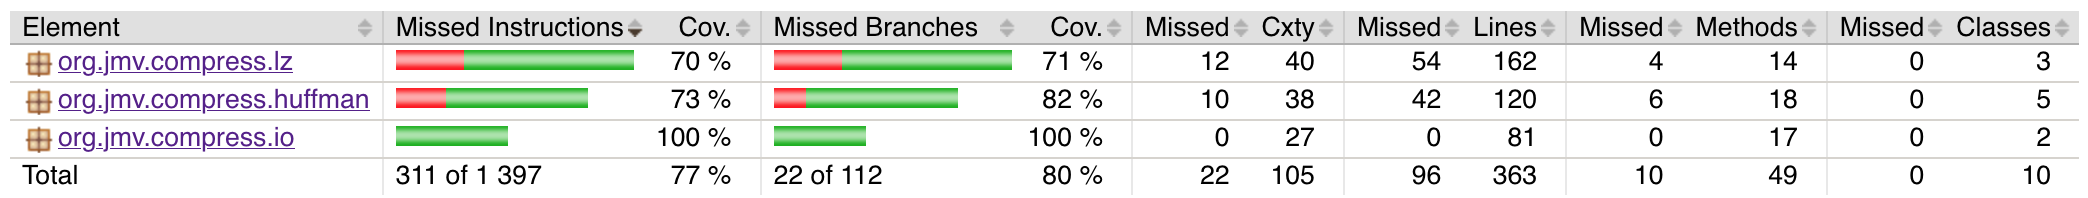
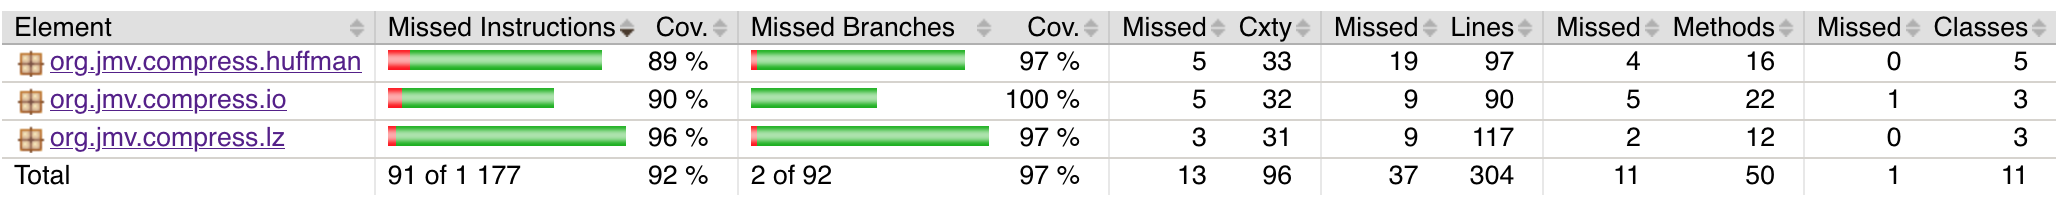
kelattava tiedostonluku

Changed region(s): [[0.0, 0.0606, 1.0, 0.9394], [0.7767, 0.2727, 0.8078, 0.3333]]

diff --git a/compress/src/main/java/org/jmv/compress/lz/LZEncoder.java b/compress/src/main/java/org/jmv/compress/lz/LZEncoder.java
@@ -3,8 +3,6 @@ package org.jmv.compress.lz;
 import java.io.IOException;
 import java.io.InputStream;
 import java.io.OutputStream;
-import java.io.DataInputStream;
-import java.io.RandomAccessFile;
 
 import org.jmv.compress.io.BitWriter;
 
@@ -15,35 +13,6 @@ public class LZEncoder {
     private static final int maxWindowLength = 4096;
     private static final int minMatchLength = 3;
     private static final int maxMatchLength = 258;
-
-    /**
-     * Siirrä ikkunaa, lue puskuri täyteen ja palauta luettujen tavuen lukumäärä.
-     *
-     * @param buffer Puskuri minne luetaan.
-     * @param input Sisääntulo mistä luetaan.
-     *
-     * @return Luettujen tavujen lukumäärä.
-     *
-     * @throws IOException jos I/O-poikkeama tapahtui.
-     */
-    private static int fillWindow(byte[] buffer, RandomAccessFile input) throws IOException {
-        byte[] in = new byte[maxWindowLength];
-        int bytesRead = input.read(in, 0, maxWindowLength);
-
-        if (bytesRead == -1) {
-            return bytesRead;
-        }
-
-        if (bytesRead == maxWindowLength) {
-            System.arraycopy(buffer, maxWindowLength, buffer, 0, maxWindowLength);
-            System.arraycopy(in, 0, buffer, maxWindowLength, maxWindowLength);
-        } else {
-            System.arraycopy(buffer, bytesRead, buffer, 0, (2 * maxWindowLength) - bytesRead);
-            System.arraycopy(in, 0, buffer, (2 * maxWindowLength) -  bytesRead, bytesRead);
-        }
-
-        return bytesRead;
-    }
 
     /**
      * Siirrä ikkunaa, lue puskuri täyteen ja palauta luettujen tavuen lukumäärä.
@@ -90,71 +59,6 @@ public class LZEncoder {
                 ++length;
             }
             input.reset();
-
-            var bitWriter = new BitWriter(output);
-            bitWriter.writeBits(length, 32);
-
-            HashChain hc = new HashChain(maxWindowLength, minMatchLength, 16);
-
-            byte[] buffer = new byte[2 * maxWindowLength];
-            int lookahead = fillWindow(buffer, input);
-            while (lookahead != -1) {
-                int currentPosition = (2 * maxWindowLength) - lookahead;
-                while (currentPosition < (2 * maxWindowLength)) {
-                    // Etsi pisin osuma nykyiselle kohdalle.
-                    hc.findLongestMatch(buffer, currentPosition);
-                    int matchPosition = hc.getMatchPosition();
-                    int matchLength = hc.getMatchLength();
-
-                    // Jos osuma oli liian lyhyt, koodaa se literaalina.
-                    // Muutoin koodaa se (offset, pituus)-parina.
-                    if (matchLength < minMatchLength) {
-                        bitWriter.writeBit(0);
-                        bitWriter.writeBits((char)buffer[currentPosition], 8);
-
-                        ++currentPosition;
-                    } else {
-                        if (matchLength > maxMatchLength) {
-                            matchLength = maxMatchLength;
-                        }
-                        int offset = -(matchPosition - currentPosition);
-                        bitWriter.writeBit(1);
-                        bitWriter.writeBits(offset, 12);
-                        bitWriter.writeBits(matchLength, 9);
-
-                        currentPosition += matchLength;
-                    }
-                }
-                // Täytä puskuri ja siirrä ikkunaa.
-                lookahead = fillWindow(buffer, input);
-                hc.moveWindow(lookahead);
-            }
-            bitWriter.finish();
-            return bitWriter.getBytesWritten();
-
-        } catch (IOException e) {
-            e.printStackTrace();
-        }
-
-        return 0;
-    }
-
-    /**
-     * LZ-enkoodaa sisääntulon ulostuloon.
-     *
-     * @param input Enkoodattava sisääntulo.
-     * @param output Ulostulo johon enkoodataan.
-     *
-     * @return Kirjoitettujen tavujen lukumäärä.
-     */
-    public static int encode(RandomAccessFile input, OutputStream output) {
-        try {
-            // Laske ja kirjoita lähtötiedoston pituus
-            int length = 0;
-            while (input.read() != -1) {
-                ++length;
-            }
-            input.seek(0);
 
             var bitWriter = new BitWriter(output);
             bitWriter.writeBits(length, 32);

diff --git a/compress/src/main/java/org/jmv/compress/RunTests.java b/compress/src/main/java/org/jmv/compress/RunTests.java
@@ -3,12 +3,12 @@ package org.jmv.compress;
 import java.io.File;
 import java.io.FileInputStream;
 import java.io.FileOutputStream;
-import java.io.RandomAccessFile;
+import java.io.FileNotFoundException;
 import java.io.IOException;
 
+import org.jmv.compress.io.ResetableFileInputStream;
 import org.jmv.compress.huffman.HuffmanDecoder;
 import org.jmv.compress.huffman.HuffmanEncoder;
-
 import org.jmv.compress.lz.LZDecoder;
 import org.jmv.compress.lz.LZEncoder;
 
@@ -22,7 +22,7 @@ public class RunTests {
             var inFile = new File("test_material/dna.1MB");
             var outFile = new File("test_material/dna.1MB.lzenc");
             var original = inFile.length();
-            var input = new RandomAccessFile(inFile, "r");
+            var input = new ResetableFileInputStream(inFile);
             var output = new FileOutputStream(outFile);
 
             long start = System.nanoTime();
@@ -72,7 +72,7 @@ public class RunTests {
             var inFile = new File("test_material/dna.1MB");
             var outFile = new File("test_material/dna.1MB.huffenc");
             var original = inFile.length();
-            var input = new RandomAccessFile(inFile, "r");
+            var input = new ResetableFileInputStream(inFile);
             var output = new FileOutputStream(outFile);
 
             long start = System.nanoTime();
@@ -122,7 +122,7 @@ public class RunTests {
             var inFile = new File("test_material/english.1MB");
             var outFile = new File("test_material/english.1MB.lzenc");
             var original = inFile.length();
-            var input = new RandomAccessFile(inFile, "r");
+            var input = new ResetableFileInputStream(inFile);
             var output = new FileOutputStream(outFile);
 
             long start = System.nanoTime();
@@ -172,7 +172,7 @@ public class RunTests {
             var inFile = new File("test_material/english.1MB");
             var outFile = new File("test_material/english.1MB.huffenc");
             var original = inFile.length();
-            var input = new RandomAccessFile(inFile, "r");
+            var input = new ResetableFileInputStream(inFile);
             var output = new FileOutputStream(outFile);
 
             long start = System.nanoTime();

diff --git a/compress/src/main/java/org/jmv/compress/io/ResetableFileInputStream.java b/compress/src/main/java/org/jmv/compress/io/ResetableFileInputStream.java
@@ -1,0 +1,69 @@
+package org.jmv.compress.io;
+
+import java.io.File;
+import java.io.FileNotFoundException;
+import java.io.IOException;
+import java.io.InputStream;
+import java.io.RandomAccessFile;
+
+/**
+ * Luokka tiedostonlukuun jolla voi kelata tiedoston alkuun.
+ */
+public class ResetableFileInputStream extends InputStream {
+    private RandomAccessFile raf;
+
+    /**
+     * Konstruktoi uusi kelattava tiedostonlukija.
+     *
+     * @param file Tiedosto mistä luetaan.
+     *
+     * @throws FileNotFoundException jos tiedostoa ei löydy..
+     */
+    public ResetableFileInputStream(File file) throws FileNotFoundException {
+        raf = new RandomAccessFile(file, "r");
+    }
+
+    /**
+     * Yhden tavun lukeminen.
+     *
+     * @return Luettu tavu.
+     *
+     * @throws IOException jos I/O-poikkeama tapahtui.
+     */
+    public int read() throws IOException {
+        return raf.read();
+    }
+
+    /**
+     * Lue tavuja taulukkoon.
+     *
+     * @param buffer Taulukko johon luetaan.
+     * @param offset Taulukon kohta johon luetaan.
+     * @param length Kuinka monta tavua yritetään lukea.
+     *
+     * @return Luettujen tavujen lukumäärä.
+     *
+     * @throws IOException jos I/O-poikkeama tapahtui.
+     */
+    public int read(byte[] buffer, int offset, int length) throws IOException {
+        return raf.read(buffer, offset, length);
+    }
+
+    /**
+     * Sulje tiedostonlukija.
+     *
+     * @throws IOException jos I/O-poikkeama tapahtui.
+     */
+    public void close() throws IOException {
+        raf.close();
+    }
+
+    /**
+     * Kelaa tiedoston alkuun.
+     *
+     * @throws IOException jos I/O-poikkeama tapahtui.
+     */
+    public void reset() throws IOException {
+        raf.seek(0);
+    }
+}

diff --git a/compress/src/main/java/org/jmv/compress/huffman/HuffmanEncoder.java b/compress/src/main/java/org/jmv/compress/huffman/HuffmanEncoder.java
@@ -3,7 +3,6 @@ package org.jmv.compress.huffman;
 import java.io.IOException;
 import java.io.InputStream;
 import java.io.OutputStream;
-import java.io.RandomAccessFile;
 import java.util.Arrays;
 import java.util.Comparator;
 
@@ -49,49 +48,6 @@ public class HuffmanEncoder {
         }
 
         return 0;
-    }
-
-    public static int encode(RandomAccessFile input, OutputStream output) {
-        try {
-            var counts = scanCounts(input);
-
-            int size = 0;
-            for (int i = 0; i < 256; i++) {
-                size += counts[i];
-            }
-
-            var root = buildTree(counts);
-            var codes = buildCodesFromTree(root);
-
-            var bitWriter = new BitWriter(output);
-            bitWriter.writeTree(root);
-            bitWriter.writeBits(size, 32);
-
-            input.seek(0);
-
-            int token = 0;
-            while ((token = input.read()) != -1) {
-                bitWriter.writeBits(codes[token].code, codes[token].length);
-            }
-            bitWriter.finish();
-            return bitWriter.getBytesWritten();
-
-        } catch (IOException e) {
-            e.printStackTrace();
-        }
-
-        return 0;
-    }
-
-    private static int[] scanCounts(RandomAccessFile input) throws IOException {
-        int[] counts = new int[256];
-
-        int token = 0;
-        while ((token = input.read()) != -1) {
-            ++counts[token];
-        }
-
-        return counts;
     }
 
     /**

diff --git a/compress/src/main/java/org/jmv/compress/Huffman.java b/compress/src/main/java/org/jmv/compress/Huffman.java
@@ -3,9 +3,10 @@ package org.jmv.compress;
 import java.io.File;
 import java.io.FileInputStream;
 import java.io.FileOutputStream;
-import java.io.RandomAccessFile;
+import java.io.FileNotFoundException;
 import java.io.IOException;
 
+import org.jmv.compress.io.ResetableFileInputStream;
 import org.jmv.compress.huffman.HuffmanDecoder;
 import org.jmv.compress.huffman.HuffmanEncoder;
 
@@ -53,7 +54,7 @@ public class Huffman {
             }
 
             if (mode.equals("e")) {
-                var input = new RandomAccessFile(inFile, "r");
+                var input = new ResetableFileInputStream(inFile);
                 var output = new FileOutputStream(outFile);
 
                 long start = System.nanoTime();
@@ -67,6 +68,9 @@ public class Huffman {
                 System.out.printf("Time taken to encode was %.5f seconds\n", ((double)timeTaken / (double)1000000000));
             }
 
+        } catch (FileNotFoundException e) {
+            e.printStackTrace();
+            System.exit(1);
         } catch (IOException e) {
             e.printStackTrace();
             System.exit(1);

diff --git a/compress/src/main/java/org/jmv/compress/LZ.java b/compress/src/main/java/org/jmv/compress/LZ.java
@@ -3,9 +3,10 @@ package org.jmv.compress;
 import java.io.File;
 import java.io.FileInputStream;
 import java.io.FileOutputStream;
-import java.io.RandomAccessFile;
+import java.io.FileNotFoundException;
 import java.io.IOException;
 
+import org.jmv.compress.io.ResetableFileInputStream;
 import org.jmv.compress.lz.LZDecoder;
 import org.jmv.compress.lz.LZEncoder;
 
@@ -53,7 +54,7 @@ public class LZ {
             }
 
             if (mode.equals("e")) {
-                var input = new RandomAccessFile(inFile, "r");
+                var input = new ResetableFileInputStream(inFile);
                 var output = new FileOutputStream(outFile);
 
                 long start = System.nanoTime();
@@ -67,6 +68,9 @@ public class LZ {
                 System.out.printf("Time taken to encode was %.5f seconds\n", ((double)timeTaken / (double)1000000000));
             }
 
+        } catch (FileNotFoundException e) {
+            e.printStackTrace();
+            System.exit(1);
         } catch (IOException e) {
             e.printStackTrace();
             System.exit(1);

diff --git a/README.md b/README.md
@@ -4,11 +4,11 @@
 
 Testi-ohjelman saa ajettua näin:
 
-    `$ cd compress`
+    $ cd compress
 
-    `$ mvn package`
+    $ mvn package
 
-    `$ java -cp target/org.jmv.compress-1.0-SNAPSHOT.jar org.jmv.compress.RunTests`
+    $ java -cp target/org.jmv.compress-1.0-SNAPSHOT.jar org.jmv.compress.RunTests
 
 
 Ohjelmia saa muuten ajettua näin:

diff --git a/dokumentaatio/viikkoraportti4.md b/dokumentaatio/viikkoraportti4.md
@@ -16,4 +16,4 @@
 
 - Seuraavaksi ajattelin tutkia kaanonista Huffman-koodausta.
 
-- Käytin tällä viikolla aikaa noin 10 tuntia.
+- Käytin tällä viikolla aikaa noin 12 tuntia.
